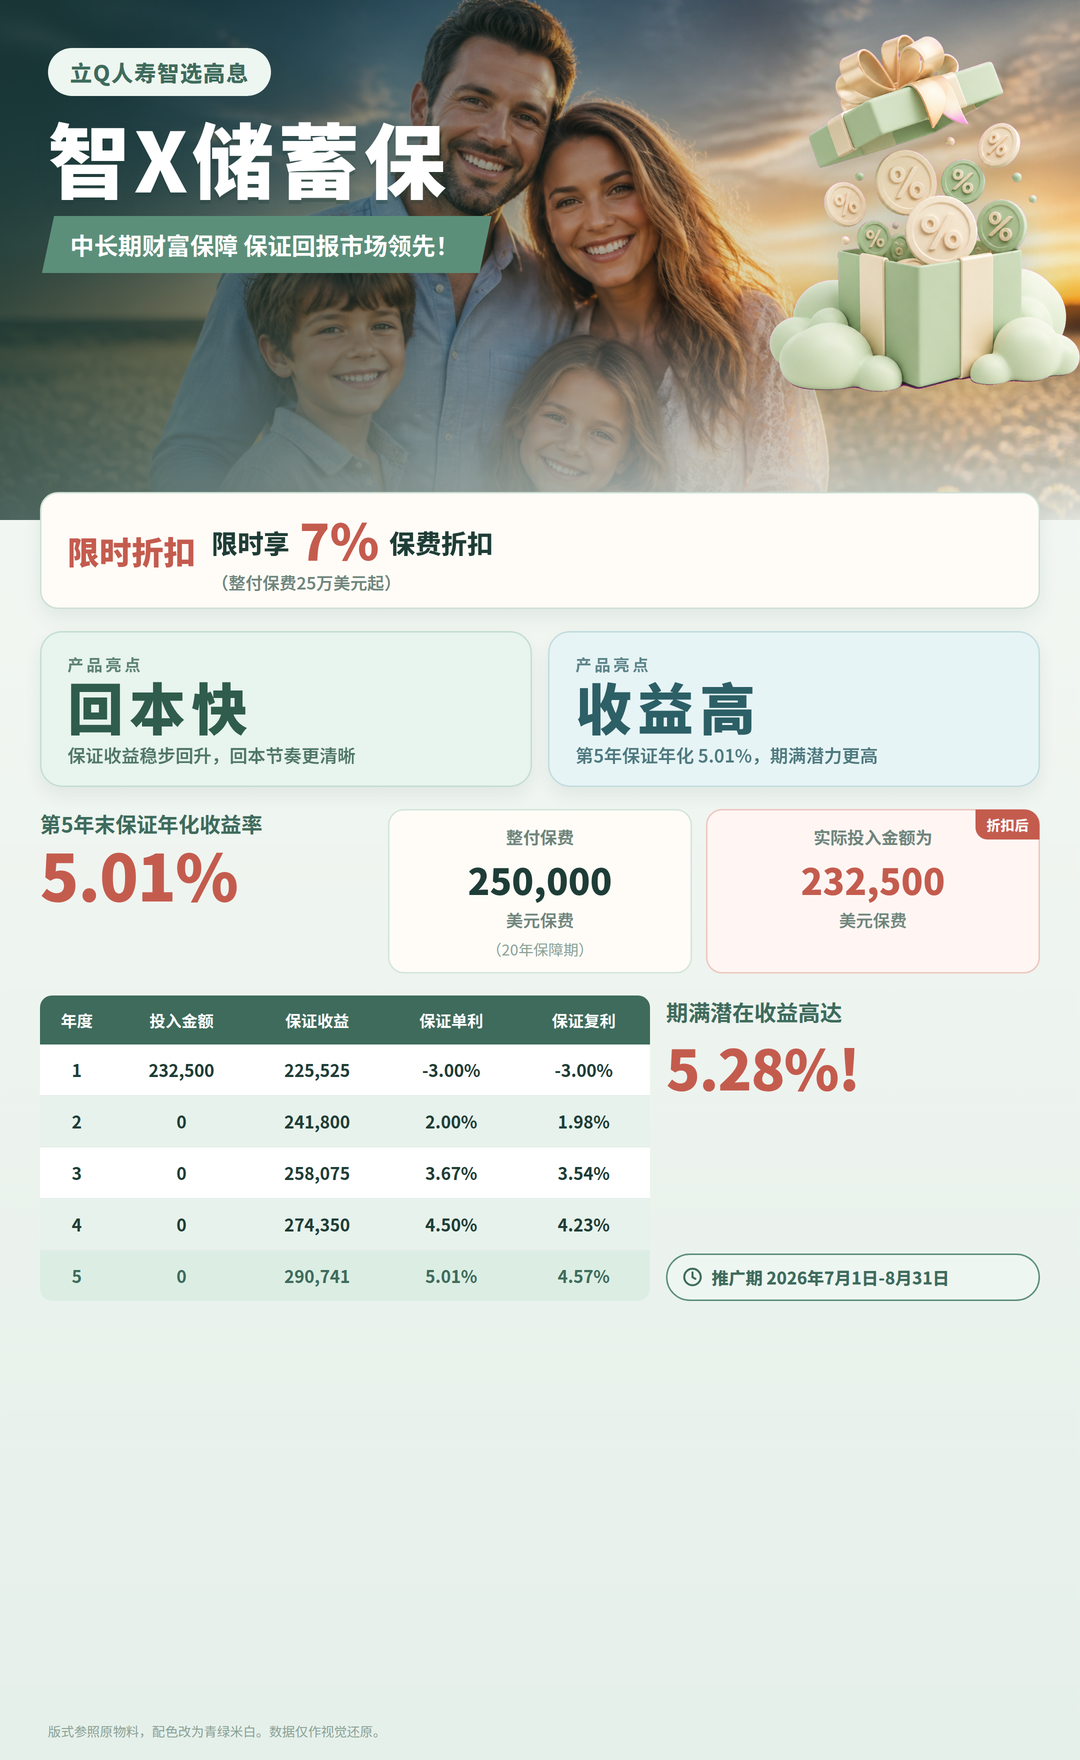
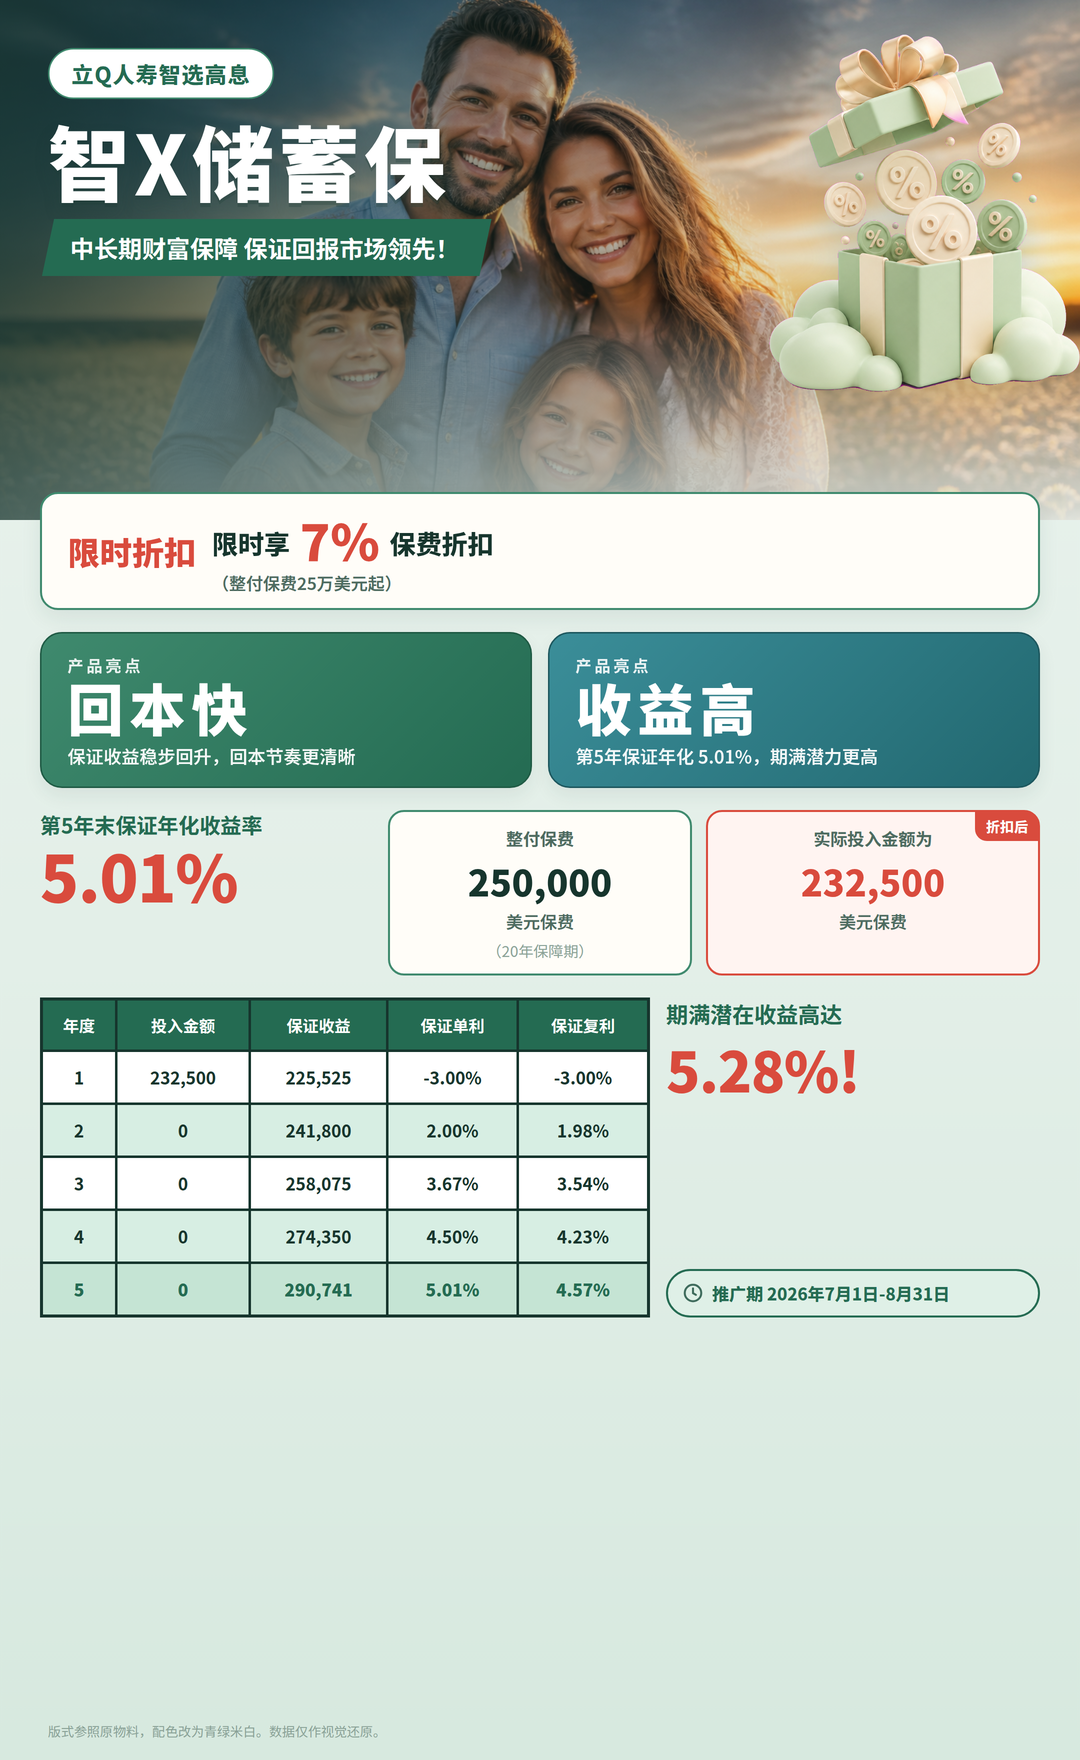
Boost color contrast and thicken yield table grid
Saturate sage/teal fills and draw a darker 2.5px forest-green grid so the 5-year return table reads clearly.

Changed region(s): [[0.0306, 0.2812, 0.9778, 0.75], [0.0306, 0.0312, 0.4583, 0.1562], [0.3667, 0.2812, 0.4583, 0.3125]]

diff --git a/design/poster/index.html b/design/poster/index.html
@@ -12,15 +12,16 @@
     }
 
     :root {
-      --paper: #f3f6f1;
-      --ink: #1e3d36;
-      --sage: #5c8f7a;
-      --sage-d: #3e6b5c;
-      --mint: #e7f2ec;
-      --foam: #b7d4c7;
-      --coral: #c45c4e;
-      --cream: #fffcf7;
-      --mute: #6f857c;
+      --paper: #eef4ef;
+      --ink: #16352d;
+      --sage: #3f8a6e;
+      --sage-d: #246b52;
+      --mint: #d7eee3;
+      --foam: #7ec8a8;
+      --coral: #d94b3d;
+      --cream: #fffdf8;
+      --mute: #4d6b60;
+      --line: #2f6b55;
     }
 
     * { box-sizing: border-box; margin: 0; padding: 0; }
@@ -37,7 +38,7 @@
       position: relative;
       font-family: "Noto Sans SC", "WenQuanYi Micro Hei", sans-serif;
       color: var(--ink);
-      background: linear-gradient(180deg, #f7faf6 0%, #eef4ef 55%, #e6f0ea 100%);
+      background: linear-gradient(180deg, #eaf3ee 0%, #e3efe8 55%, #d7e9df 100%);
     }
 
     .header {
@@ -63,8 +64,9 @@
 
     .badge {
       display: inline-block;
-      background: #eef6f1;
+      background: #fff;
       color: var(--sage-d);
+      border: 1.5px solid var(--sage);
       font-size: 22px;
       font-weight: 800;
       padding: 8px 22px;
@@ -85,7 +87,7 @@
     .ribbon {
       display: inline-block;
       margin-top: 16px;
-      background: var(--sage);
+      background: var(--sage-d);
       color: #fff;
       font-size: 24px;
       font-weight: 700;
@@ -111,7 +113,7 @@
       margin: -28px 40px 0;
       min-height: 108px;
       border-radius: 18px;
-      border: 1.5px solid #cfe0d6;
+      border: 2px solid var(--sage);
       background: var(--cream);
       display: flex;
       align-items: center;
@@ -168,21 +170,21 @@
     }
 
     .hi-a {
-      background: #e8f4ee;
-      border-color: #c5dfd1;
-      color: #2f5c4d;
+      background: linear-gradient(135deg, #3f8a6e, #246b52);
+      border-color: #1f5a44;
+      color: #fff;
     }
     .hi-b {
-      background: #e7f4f5;
-      border-color: #c3dde0;
-      color: #2d5f66;
+      background: linear-gradient(135deg, #3b8e99, #226870);
+      border-color: #1d575e;
+      color: #fff;
     }
 
     .hi .eye {
       font-size: 16px;
       font-weight: 700;
       letter-spacing: 3px;
-      opacity: .75;
+      opacity: .9;
     }
 
     .hi .big {
@@ -197,7 +199,7 @@
       margin-top: 8px;
       font-size: 18px;
       font-weight: 600;
-      opacity: .82;
+      opacity: .95;
     }
 
     .stats {
@@ -226,7 +228,7 @@
 
     .card {
       background: var(--cream);
-      border: 1.5px solid #d5e5db;
+      border: 2px solid var(--sage);
       border-radius: 16px;
       text-align: center;
       padding: 14px 10px 12px;
@@ -237,7 +239,7 @@
     .card .v { margin-top: 4px; font-size: 36px; font-weight: 900; color: var(--ink); }
     .card .u { margin-top: 2px; font-size: 17px; font-weight: 600; color: var(--mute); }
     .card .h { margin-top: 6px; font-size: 15px; color: #8aa297; }
-    .card.hot { background: #fff6f3; border-color: #edc8c2; }
+    .card.hot { background: #fff4f1; border-color: var(--coral); }
     .card.hot .v { color: var(--coral); }
 
     .flag {
@@ -263,9 +265,12 @@
     table {
       width: 100%;
       border-collapse: collapse;
-      overflow: hidden;
-      border-radius: 12px;
       background: #fff;
+      border: 3px solid #16352d;
+    }
+
+    th, td {
+      border: 2.5px solid #16352d;
     }
 
     th {
@@ -282,14 +287,14 @@
       font-weight: 700;
       padding: 13px 4px;
       color: var(--ink);
-      border-bottom: 1px solid #e6eee9;
+      background: #fff;
     }
 
-    tr:nth-child(even) td { background: var(--mint); }
+    tr:nth-child(even) td { background: #d7eee3; }
     tr:last-child td {
       color: var(--sage-d);
-      background: #dceee4;
-      border-bottom: none;
+      background: #c5e4d4;
+      font-weight: 900;
     }
 
     .side {
@@ -320,8 +325,8 @@
       display: inline-flex;
       align-items: center;
       gap: 8px;
-      background: #eef6f1;
-      border: 1.5px solid var(--sage);
+      background: #dff0e7;
+      border: 2px solid var(--sage-d);
       color: var(--sage-d);
       font-size: 17px;
       font-weight: 800;
